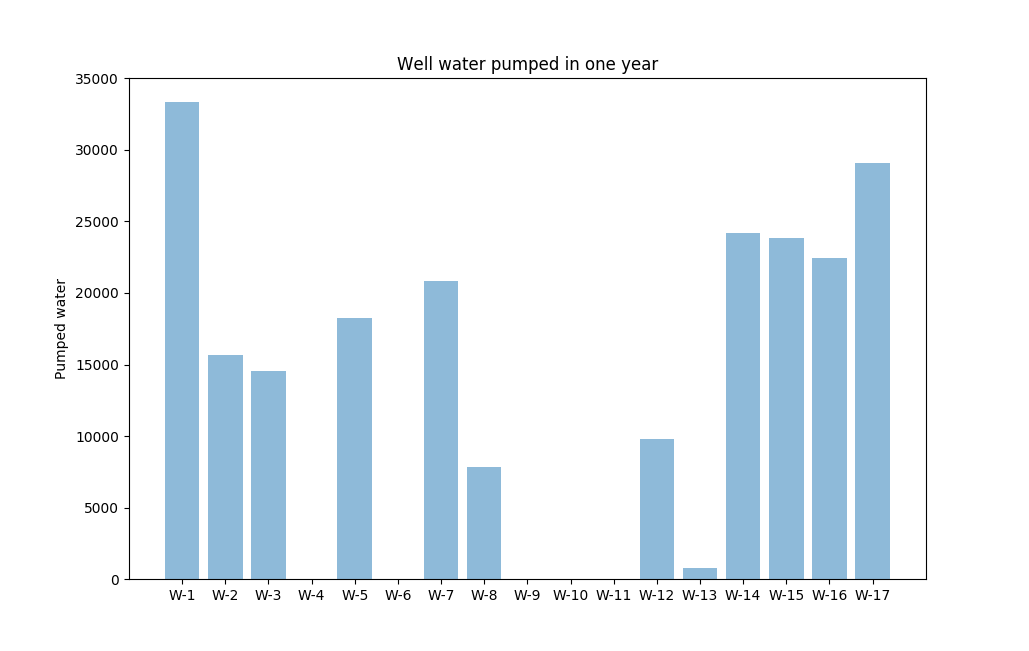
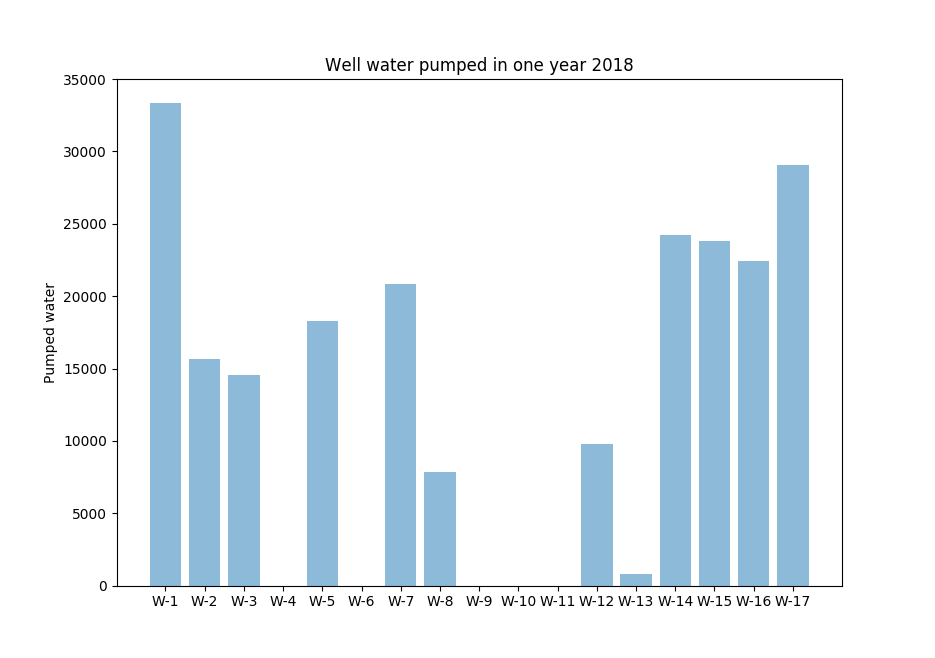
update wells

diff --git a/vis/well_year.py b/vis/well_year.py
@@ -24,6 +24,6 @@ y_pos = np.arange(well_count)
 plt.bar(y_pos, cum_pump, align='center', alpha=0.5)
 plt.xticks(y_pos, wells_label)
 plt.ylabel('Pumped water')
-plt.title('Well water pumped in one year')
+plt.title('Well water pumped in one year 2018')
 
 plt.show()
